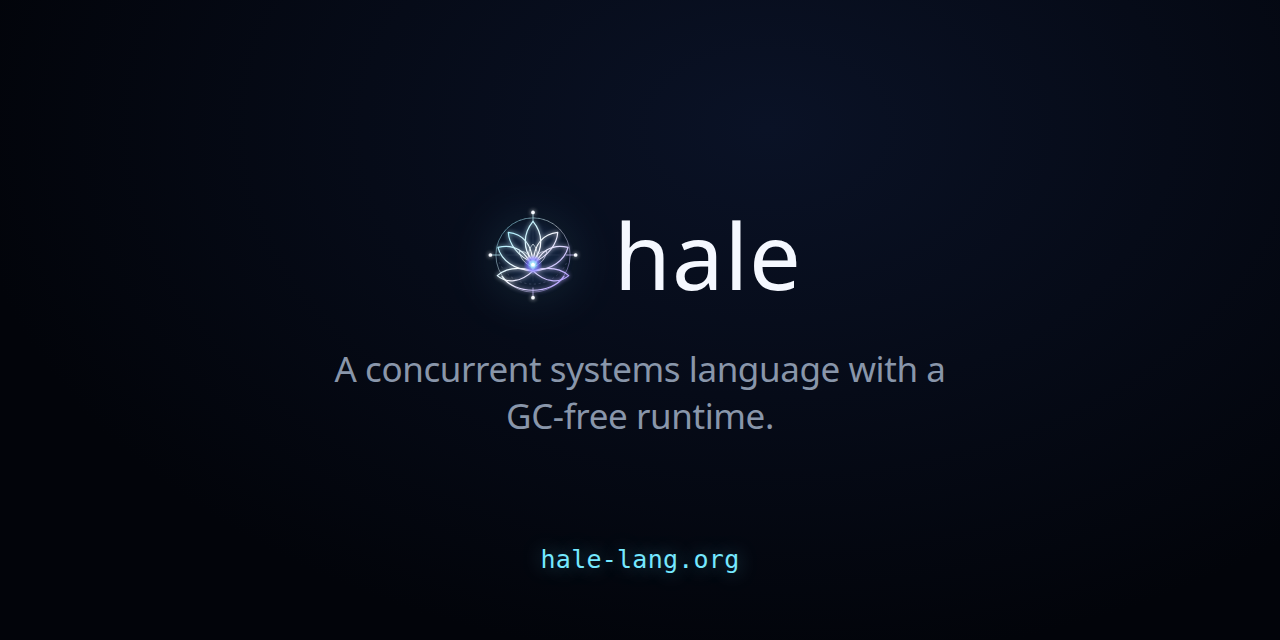
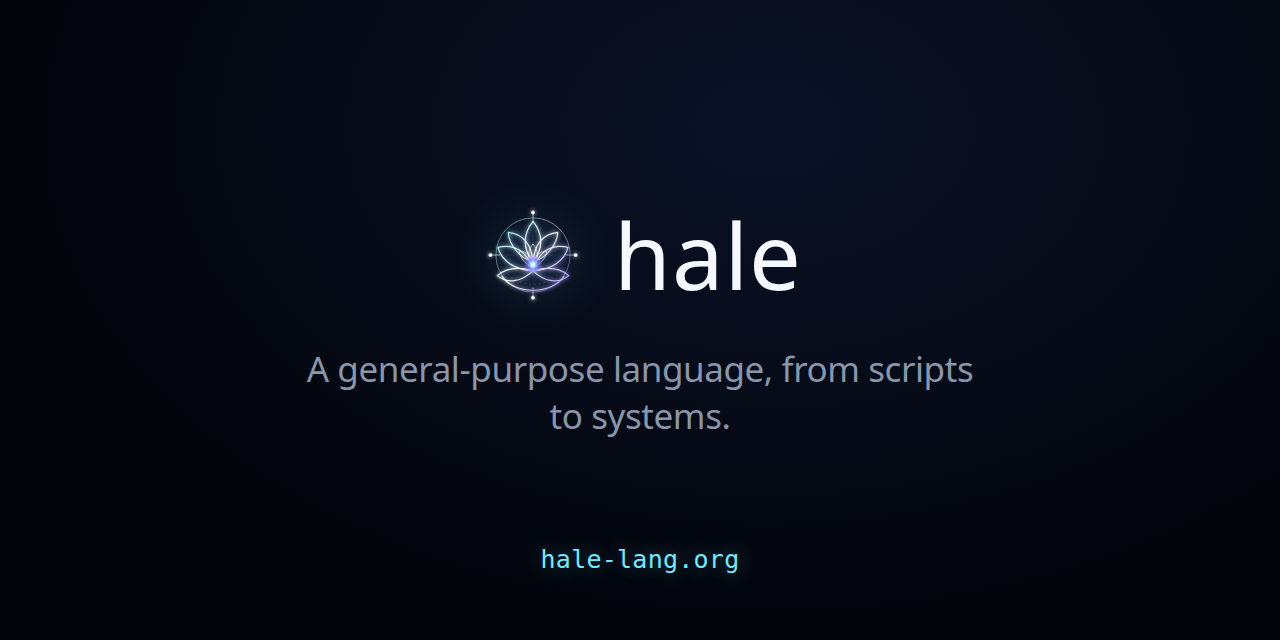
nav: six items that state the category; og card follows
Language(/features) · Learn(/docs) · Examples · Packages · Proof ·
Playground. "The model" leaves the nav — the homepage's why-Hale
section, the final CTA, and the footer hand it to the reader when the
narrative earns it. Articles is return-visitor depth; footer and the
credibility section keep it. Packages joins: a general-purpose
language is expected to show its ecosystem.

The og card's tagline follows the category ("A general-purpose
language, from scripts to systems.") and og.png is regenerated.

Changed region(s): [[0.2188, 0.5625, 0.7812, 0.6875]]

diff --git a/src/nav-links.ts b/src/nav-links.ts
@@ -3,14 +3,20 @@
 //
 // Every link ships at every width. There is no small-screen subset: the
 // nav row scrolls on a narrow viewport instead of dropping entries.
+//
+// Six items, chosen to state the category (general-purpose language
+// site) to a first-time visitor. "The model" left the nav on purpose:
+// the homepage's why-Hale section, the final CTA, and the footer all
+// hand it to the reader at the moment the narrative earns it, which is
+// the repositioning working as designed. Articles is return-visitor
+// depth; it lives in the footer and the credibility section.
 export interface NavLink { href: string; label: string; }
 
 export const navLinks: NavLink[] = [
-  { href: '/model',      label: 'The model' },
-  { href: '/docs',       label: 'Docs' },
-  { href: '/playground', label: 'Playground' },
-  { href: '/proof',      label: 'Proof' },
-  { href: '/features',   label: 'Features' },
+  { href: '/features',   label: 'Language' },
+  { href: '/docs',       label: 'Learn' },
   { href: '/examples',   label: 'Examples' },
-  { href: '/articles',   label: 'Articles' },
+  { href: '/packages',   label: 'Packages' },
+  { href: '/proof',      label: 'Proof' },
+  { href: '/playground', label: 'Playground' },
 ];

diff --git a/scripts/og-card.html b/scripts/og-card.html
@@ -63,7 +63,7 @@
   </div>
   <!-- Non-breaking hyphen: the shorter tagline lets the line break land
        inside "GC-free" otherwise, which reads as a typo at card size. -->
-  <p class="tag">A concurrent systems language with a GC&#8209;free runtime.</p>
+  <p class="tag">A general&#8209;purpose language, from scripts to systems.</p>
   <div class="foot">hale-lang.org</div>
 </body>
 </html>
